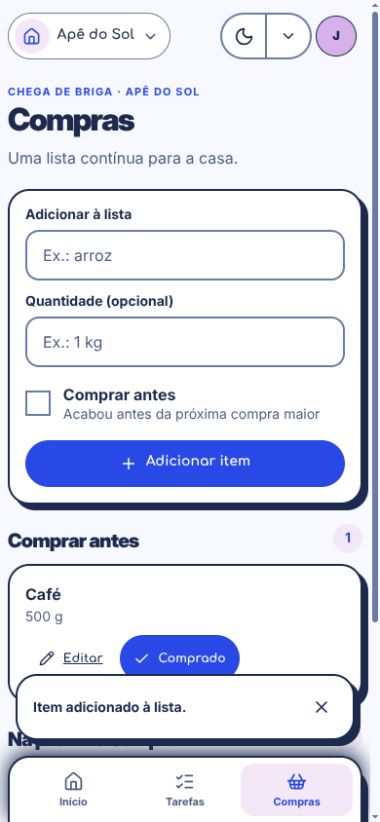
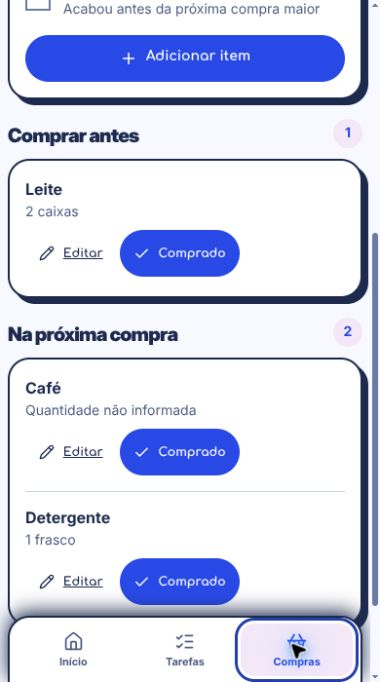
Melhora prévias da landing e isola modo demo

diff --git a/apps/web/src/resident/ResidentScreens.tsx b/apps/web/src/resident/ResidentScreens.tsx
@@ -311,7 +311,7 @@ export function TaskDetailScreen({
   onResume: () => void;
   onEnd: () => void;
 }) {
-  if (!task) return <EmptyState title="Esta tarefa não está disponível." description="Ela pode ter sido removida desta demonstração." />;
+  if (!task) return <EmptyState title="Esta tarefa não está disponível." description="Ela pode ter sido removida ou não estar mais disponível." />;
   return (
     <div className={styles.screenStack}>
       <button className={styles.backButton} type="button" onClick={onBack}><ArrowLeft size={18} aria-hidden="true" /> Voltar às tarefas</button>
@@ -570,7 +570,7 @@ export function ProfileScreen({
   async function toggleReminder() {
     setSavingReminder(true);
     try {
-      if (import.meta.env.DEV) {
+      if (import.meta.env.MODE === "demo") {
         showToast("Notificações ficam disponíveis no ambiente de produção.");
         return;
       }
@@ -639,7 +639,7 @@ export function ProfileScreen({
       </Card>
       <Card className={styles.preferenceCard}><h2>Seus dados</h2><p>Baixe uma cópia dos dados da sua conta e das casas em que participa.</p><Button variant="secondary" onClick={() => void exportData()}>Baixar meus dados</Button><p><Link to="/privacidade">Aviso de privacidade</Link></p><p><Link to="/casa/perfil/excluir">Excluir conta</Link></p></Card>
       <Button variant="quiet" className={styles.logoutButton} onClick={onLogout}><LogOut size={18} aria-hidden="true" /> Sair da conta</Button>
-      {import.meta.env.DEV && <p className={styles.helper}>A sessão e estas alterações são locais. Nenhum dado de conta é enviado.</p>}
+      {import.meta.env.MODE === "demo" && <p className={styles.helper}>A sessão e estas alterações são locais. Nenhum dado de conta é enviado.</p>}
     </div>
   );
 }
@@ -740,10 +740,10 @@ export function MembersScreen({
       {role === "responsavel" && (
         <Card className={styles.inviteCard}>
           <div className={styles.sectionHeadingCompact}><h2>Convidar morador</h2><Mail size={19} aria-hidden="true" /></div>
-          <p>{import.meta.env.DEV ? "Este convite fica nesta demonstração. Nenhum e-mail será enviado." : "A pessoa receberá um link por e-mail para entrar nesta casa."}</p>
+          <p>{import.meta.env.MODE === "demo" ? "Este convite fica nesta demonstração. Nenhum e-mail será enviado." : "A pessoa receberá um link por e-mail para entrar nesta casa."}</p>
           <form className={styles.inviteForm} onSubmit={submit}>
             <TextField id="invite-email" label="E-mail" type="email" required value={email} onChange={(event) => setEmail(event.target.value)} placeholder="nome@exemplo.com" />
-            <Button type="submit"><Plus size={18} aria-hidden="true" /> {import.meta.env.DEV ? "Criar convite de demonstração" : "Enviar convite"}</Button>
+            <Button type="submit"><Plus size={18} aria-hidden="true" /> {import.meta.env.MODE === "demo" ? "Criar convite de demonstração" : "Enviar convite"}</Button>
           </form>
         </Card>
       )}
@@ -753,7 +753,7 @@ export function MembersScreen({
           {data.members.map((member) => (
             <article className={styles.memberRow} key={member.id}>
               <Avatar name={member.name} initials={initials(member.name)} tone={member.id === userId ? "blue" : "sun"} />
-              <div><strong>{member.name}{member.id === userId ? " · Você" : ""}</strong><span>{member.email ?? "Morador de demonstração"}</span></div>
+              <div><strong>{member.name}{member.id === userId ? " · Você" : ""}</strong><span>{member.email ?? "Morador da casa"}</span></div>
               <span className={styles.memberRole}>{member.role === "responsavel" ? "Responsável" : "Morador"}</span>
               {role === "responsavel" && member.id !== userId && <div className={styles.memberActions}>
                 {member.role !== "responsavel" && <Button variant="quiet" onClick={() => onTransfer(member.id)}>Tornar responsável</Button>}
@@ -765,9 +765,9 @@ export function MembersScreen({
       </section>
       <section className={styles.contentSection} aria-labelledby="invites-title">
         <div className={styles.sectionHeadingCompact}><h2 id="invites-title">Convites pendentes</h2><span>{data.invites.length}</span></div>
-        {data.invites.length ? <Card className={styles.memberList}>{data.invites.map((invite) => <article className={styles.inviteRow} key={invite.id}><div><strong>{invite.email}</strong><StatusBadge tone="warning">{import.meta.env.DEV ? "Não enviado · demonstração" : "Link enviado"}</StatusBadge></div>{role === "responsavel" && <Button variant="quiet" onClick={() => onRevoke(invite.id)}>Revogar</Button>}</article>)}</Card> : <p className={styles.helper}>Nenhum convite pendente.</p>}
+        {data.invites.length ? <Card className={styles.memberList}>{data.invites.map((invite) => <article className={styles.inviteRow} key={invite.id}><div><strong>{invite.email}</strong><StatusBadge tone="warning">{import.meta.env.MODE === "demo" ? "Não enviado · demonstração" : "Link enviado"}</StatusBadge></div>{role === "responsavel" && <Button variant="quiet" onClick={() => onRevoke(invite.id)}>Revogar</Button>}</article>)}</Card> : <p className={styles.helper}>Nenhum convite pendente.</p>}
       </section>
-      {import.meta.env.DEV && <p className={styles.infoNote}>Os moradores e convites acima são dados locais de demonstração; alterações não chegam a outras pessoas.</p>}
+      {import.meta.env.MODE === "demo" && <p className={styles.infoNote}>Os moradores e convites acima são dados locais de demonstração; alterações não chegam a outras pessoas.</p>}
     </div>
   );
 }

diff --git a/apps/web/src/admin/AdminApp.tsx b/apps/web/src/admin/AdminApp.tsx
@@ -72,6 +72,7 @@ import styles from "./AdminApp.module.css";
 const client = new QueryClient({
   defaultOptions: { queries: { retry: 1, staleTime: 15_000 } },
 });
+const demoMode = import.meta.env.MODE === "demo";
 const AdminGatewayContext = createContext<AdminGateway | null>(null);
 const useAdminGateway = () => {
   const gateway = useContext(AdminGatewayContext);
@@ -237,11 +238,11 @@ function Login({
           <h1>
             {step === "totp"
               ? "Verificar o código"
-              : import.meta.env.DEV
+              : demoMode
                 ? "Entrar na demo"
                 : "Entrar na administração"}
           </h1>
-          {import.meta.env.DEV && <>
+          {demoMode && <>
             <p>Use as credenciais fictícias abaixo para explorar o fluxo.</p>
             <div className={styles.credentials}>
               <span>E-mail <strong>admin@exemplo.test</strong></span>
@@ -291,7 +292,7 @@ function Login({
             <Button type="submit" disabled={mutation.isPending}>
               {step === "totp"
                 ? "Verificar e entrar"
-                : import.meta.env.DEV
+                : demoMode
                   ? "Entrar na demo"
                   : "Entrar"}{" "}
               <ArrowRight size={18} aria-hidden="true" />
@@ -311,14 +312,14 @@ function Login({
           {step === "credentials" && bootstrapEnabled && <p className={styles.loginHelp}><Link to="/admin/setup">Configurar a primeira conta</Link></p>}
         </Card>
         <div className={styles.loginIntro}>
-          <span className={styles.eyebrow}>ÁREA DA EQUIPE{import.meta.env.DEV ? " · DEMONSTRAÇÃO" : ""}</span>
+          <span className={styles.eyebrow}>ÁREA DA EQUIPE{demoMode ? " · DEMONSTRAÇÃO" : ""}</span>
           <h2>
             Os bastidores
             <br />
             <em>também contam.</em>
           </h2>
           <p>
-            {import.meta.env.DEV ? "Este console usa dados fictícios e funciona somente no ambiente de desenvolvimento." : "Acesso restrito à equipe da plataforma."}
+            {demoMode ? "Este console usa dados fictícios e funciona somente no ambiente de demonstração." : "Acesso restrito à equipe da plataforma."}
           </p>
           <img src="/caminhos.svg" alt="" />
         </div>
@@ -772,7 +773,7 @@ function UserEditor({
                   Suspender conta
                 </Button>
               )}
-              {import.meta.env.DEV && (
+              {demoMode && (
                 <Button
                   variant="quiet"
                   disabled={mutation.isPending}
@@ -964,10 +965,10 @@ function AccessPage() {
       showToast(
         {
           allow: "Acesso liberado.",
-          invite: import.meta.env.DEV ? "Convite criado na demo; nenhum e-mail foi enviado." : "Convite criado; o e-mail entrou na fila de envio.",
+          invite: demoMode ? "Convite criado na demo; nenhum e-mail foi enviado." : "Convite criado; o e-mail entrou na fila de envio.",
           revokeAllow: "Autorização revogada.",
           revokeInvite: "Convite revogado.",
-          resend: import.meta.env.DEV ? "Convite atualizado na demo; nenhum e-mail foi enviado." : "Convite reenviado; o e-mail entrou na fila de envio.",
+          resend: demoMode ? "Convite atualizado na demo; nenhum e-mail foi enviado." : "Convite reenviado; o e-mail entrou na fila de envio.",
         }[action.kind],
       );
       if (action.kind === "allow") setAllowedEmail("");
@@ -1957,7 +1958,7 @@ function AdminInner({ themeControl }: { themeControl: ReactNode }) {
     );
   return (
     <section className={styles.console}>
-      {import.meta.env.DEV && <div className={styles.demoBanner} role="status">
+      {demoMode && <div className={styles.demoBanner} role="status">
         <span>DEMONSTRAÇÃO · DADOS FICTÍCIOS</span>
         <span>Alterações se perdem ao atualizar ou fechar a aba. Nenhum e-mail é enviado.</span>
       </div>}

diff --git a/apps/web/src/LandingPage.tsx b/apps/web/src/LandingPage.tsx
@@ -104,10 +104,9 @@ export function LandingPage() {
           )}
           <a className={styles.loginLink} href={`${appOrigin}/entrar`}>Já tem acesso? Entrar</a>
           <span className={styles.signature}>A casa não é um ringue.</span>
-          <span className={styles.previewBadge}>PRÉVIA DO APP · DADOS FICTÍCIOS</span>
         </div>
         <div className={styles.heroVisual} aria-label="Prévia do app Chega de Briga">
-          <img src="/prints/inicio.jpg" alt="Tela Início do app com o cartão Primeiro combinado e atalhos para criar uma tarefa ou adicionar item de compras." />
+          <img src="/prints/inicio.jpg" alt="Início do app com tarefas atribuídas a moradores e um resumo de três itens de compras, incluindo um urgente." />
           <span className={styles.sticker}>TÁ<br />COMBINADO.</span>
           <img className={styles.spark} src="/faisca.svg" alt="" />
         </div>
@@ -117,7 +116,7 @@ export function LandingPage() {
         <div className={styles.sectionIntro}>
           <span className={styles.eyebrow}>A ROTINA EM UM SÓ LUGAR</span>
           <h2 id="product-title">Cada combinado <em>mais fácil de encontrar.</em></h2>
-          <p>Veja o que precisa ser feito e o que está faltando, sem depender de uma conversa perdida no grupo. As telas usam dados fictícios.</p>
+          <p>Veja o que precisa ser feito e o que está faltando, sem depender de uma conversa perdida no grupo.</p>
         </div>
         <div className={styles.showcase}>
           <article className={styles.showcaseCard} id="rotinas">
@@ -127,7 +126,7 @@ export function LandingPage() {
               <h3>Quem faz, quando faz. Tudo combinado.</h3>
               <p>Organize tarefas únicas e recorrentes e deixe a responsabilidade clara para todo mundo.</p>
             </div>
-            <img src="/prints/tarefas.jpg" alt="Tela Tarefas do app com a aba Rotinas e a tarefa fictícia Separar recicláveis." loading="lazy" />
+            <img className={styles.taskScreenshot} src="/prints/tarefas.jpg" alt="Visão semanal com o lixo atrasado atribuído a Júlia, a louça diária em revezamento e o banheiro atribuído a Caio." loading="lazy" />
           </article>
           <article className={`${styles.showcaseCard} ${styles.shoppingCard}`} id="compras">
             <div className={styles.showcaseCopy}>
@@ -136,9 +135,10 @@ export function LandingPage() {
               <h3>O que falta já fica anotado.</h3>
               <p>Adicione itens e quantidades para a próxima compra, visíveis para quem divide a casa.</p>
             </div>
-            <img src="/prints/compras.jpg" alt="Tela Compras do app com a seção Comprar antes e o item fictício Café aparecendo na lista." loading="lazy" />
+            <img src="/prints/compras.jpg" alt="Lista de compras com Leite e duas caixas para comprar antes, além de Café e Detergente na próxima compra." loading="lazy" />
           </article>
         </div>
+        <p className={styles.previewNote}>Prévia ilustrativa com dados fictícios.</p>
       </section>
 
       <section className={styles.steps} aria-labelledby="steps-title">

diff --git a/design-system/index.html b/design-system/index.html
@@ -157,11 +157,11 @@
       </section>
 
       <section class="section-shell content-section" id="produto" aria-labelledby="produto-title">
-        <div class="section-heading"><span class="eyebrow">09 / MARCA NO PRODUTO</span><h2 id="produto-title">Combinados à vista.<br /><em>Casa mais leve.</em></h2><p>A promessa da marca aparece na landing e nas telas reais do app, com dados fictícios de demonstração.</p></div>
+        <div class="section-heading"><span class="eyebrow">09 / MARCA NO PRODUTO</span><h2 id="produto-title">Combinados à vista.<br /><em>Casa mais leve.</em></h2><p>A landing identifica as capturas como prévia ilustrativa com dados fictícios. As telas mostram tarefas, responsabilidades e reposição em situações concretas.</p></div>
         <div class="product-preview-grid">
-          <figure><img src="./assets/prints/inicio.jpg" alt="Início do app com o cartão Primeiro combinado e atalhos de primeira ação." /><figcaption><strong>Início</strong><small>Começar por um combinado</small></figcaption></figure>
-          <figure><img src="./assets/prints/tarefas.jpg" alt="Tela de tarefas com a aba Rotinas e um exemplo fictício." /><figcaption><strong>Tarefas e rotinas</strong><small>Quem faz e quando</small></figcaption></figure>
-          <figure><img src="./assets/prints/compras.jpg" alt="Tela de compras com a seção Comprar antes e Café em uma lista fictícia." /><figcaption><strong>Compras</strong><small>O que falta, anotado</small></figcaption></figure>
+          <figure><img src="./assets/prints/inicio.jpg" alt="Início do app com tarefas atribuídas a moradores e um resumo de três itens de compras, incluindo um urgente." /><figcaption><strong>Início</strong><small>Tarefas e compras da casa</small></figcaption></figure>
+          <figure><img src="./assets/prints/tarefas.jpg" alt="Visão semanal com o lixo atrasado atribuído a Júlia, a louça diária em revezamento e o banheiro atribuído a Caio." /><figcaption><strong>Tarefas e rotinas</strong><small>Responsabilidade e recorrência à vista</small></figcaption></figure>
+          <figure><img src="./assets/prints/compras.jpg" alt="Lista de compras com Leite e duas caixas para comprar antes, além de Café e Detergente na próxima compra." /><figcaption><strong>Compras</strong><small>Urgência e quantidade, à vista</small></figcaption></figure>
         </div>
       </section>
     </main>

diff --git a/apps/web/src/LandingPage.module.css b/apps/web/src/LandingPage.module.css
@@ -116,11 +116,11 @@
 }
 .sticker {
   position: absolute;
-  right: 0;
-  bottom: 10%;
+  right: -1rem;
+  bottom: 8%;
   display: grid;
   place-items: center;
-  width: clamp(105px, 12vw, 150px);
+  width: clamp(92px, 9.5vw, 124px);
   aspect-ratio: 1;
   transform: rotate(8deg);
   border: var(--stroke) solid var(--brand-ink);
@@ -132,7 +132,6 @@
   text-align: center;
 }
 .spark { position: absolute; top: 7%; right: 7%; width: clamp(62px, 8vw, 100px); filter: drop-shadow(4px 4px 0 var(--brand-ink)); }
-.previewBadge { display: inline-flex; max-width: 100%; margin-top: 0.6rem; padding: 0.45rem 0.7rem; border: var(--stroke) solid var(--brand-ink); border-radius: var(--radius-pill); background: var(--brand-white); color: var(--brand-ink); box-shadow: 3px 3px 0 var(--brand-ink); font: 800 0.62rem/1.2 var(--font-personality); letter-spacing: 0.07em; }
 .product { display: grid; gap: 2.5rem; }
 .sectionIntro { max-width: 820px; }
 .sectionIntro > .eyebrow,
@@ -181,6 +180,8 @@
   border-radius: 1.3rem 1.3rem 0 0;
   box-shadow: 0 0 0 1px var(--color-surface);
 }
+.showcaseCard > img.taskScreenshot { object-position: center 70%; }
+.previewNote { margin: -1.75rem 0 0; color: var(--color-text-muted); font-size: var(--type-sm); text-align: right; }
 .shoppingCard { background: var(--color-surface-accent); }
 .steps { display: grid; gap: 2.5rem; }
 .stepList { display: grid; grid-template-columns: repeat(3, minmax(0, 1fr)); gap: 0; margin: 0; padding: 0; list-style: none; }
@@ -268,7 +269,7 @@
   .hero h1 { max-width: 12ch; font-size: clamp(2.7rem, 10vw, 4.6rem); }
   .heroVisual { min-height: 520px; margin-top: 0.5rem; }
   .heroVisual > img:first-child { width: clamp(210px, 63vw, 285px); max-height: 520px; }
-  .sticker { right: 3%; bottom: 9%; width: 100px; }
+  .sticker { right: -0.25rem; bottom: 8%; width: 90px; }
   .spark { top: 2%; right: 9%; width: 70px; }
   .showcase { grid-template-columns: 1fr; }
   .showcaseCard > img { max-height: 620px; }

diff --git a/apps/web/src/auth/AuthApp.tsx b/apps/web/src/auth/AuthApp.tsx
@@ -142,7 +142,7 @@ function AuthLayout({
           </span>
         </Link>
         <div className={styles.headerActions}>
-          {import.meta.env.DEV && <span className={styles.demoTag}>DEMO LOCAL</span>}
+          {import.meta.env.MODE === "demo" && <span className={styles.demoTag}>DEMO LOCAL</span>}
           {themeControl}
         </div>
       </header>
@@ -431,13 +431,13 @@ function Recovery() {
       <h1>Esqueceu a senha?</h1>
       {sent ? (
         <div className={styles.confirmation} role="status">
-          <p>Se houver uma conta com esse e-mail, o link de redefinição estará disponível na demonstração.</p>
+          <p>{import.meta.env.MODE === "demo" ? "Se houver uma conta com esse e-mail, o link de redefinição estará disponível na demonstração." : "Se houver uma conta com esse e-mail, enviaremos instruções para redefinir a senha."}</p>
           {resetLink && (
             <Link className={styles.resetLink} to={resetLink}>
               Abrir link de redefinição <ArrowRight size={17} aria-hidden="true" />
             </Link>
           )}
-          <p className={styles.finePrint}>Nenhum e-mail foi enviado. O link de teste expira em 30 minutos e só pode ser usado uma vez.</p>
+          {import.meta.env.MODE === "demo" && <p className={styles.finePrint}>Nenhum e-mail foi enviado. O link de teste expira em 30 minutos e só pode ser usado uma vez.</p>}
         </div>
       ) : (
         <>
@@ -705,7 +705,7 @@ function Feedback({
 }
 
 function DemoNote() {
-  if (!import.meta.env.DEV) return null;
+  if (import.meta.env.MODE !== "demo") return null;
   return (
     <p className={styles.demoNote}>
       Demonstração local: nenhuma conta real é criada e nenhum e-mail é enviado.

diff --git a/apps/web/src/resident/ResidentApp.tsx b/apps/web/src/resident/ResidentApp.tsx
@@ -596,7 +596,7 @@ export function ResidentApp({
           <ChevronDown size={17} aria-hidden="true" />
         </button>
         <div className={styles.headerActions}>
-          {import.meta.env.DEV && <span className={styles.demoBadge}>DEMO LOCAL</span>}
+          {import.meta.env.MODE === "demo" && <span className={styles.demoBadge}>DEMO LOCAL</span>}
           {themeControl}
           <Link className={styles.avatarLink} to="/casa/perfil" aria-label="Abrir perfil">
             <Avatar name={session.user.name} initials={initials(session.user.name)} tone="lilac" />
@@ -677,7 +677,7 @@ export function ResidentApp({
             <MembersScreen data={data} userId={session.user.id} role={membership?.role ?? "morador"} onInvite={inviteResident} onRemove={removeMember} onRevoke={revokeInvite} onTransfer={transferResponsibility} />
           </>
         ) : <EmptyState title="Tela não encontrada." description="Volte para Início e escolha um destino da casa." />}
-        {import.meta.env.DEV && <p className={styles.localNote}>Demonstração local: alterações se perdem ao atualizar ou fechar esta aba e não sincronizam com outras pessoas.</p>}
+        {import.meta.env.MODE === "demo" && <p className={styles.localNote}>Demonstração local: alterações se perdem ao atualizar ou fechar esta aba e não sincronizam com outras pessoas.</p>}
       </main>
 
       <nav className={styles.bottomNav} aria-label="Navegação da casa">

diff --git a/apps/web/src/App.tsx b/apps/web/src/App.tsx
@@ -26,16 +26,17 @@ import {
 } from "./theme";
 import styles from "./App.module.css";
 
-const DevAdmin = import.meta.env.DEV
+const demoMode = import.meta.env.MODE === "demo";
+const DevAdmin = demoMode
   ? lazy(() => import("./admin/DemoAdminApp"))
   : null;
-const ProdAdmin = !import.meta.env.DEV
+const ProdAdmin = !demoMode
   ? lazy(() => import("./admin/ProductionAdminApp"))
   : null;
-const DevAuth = import.meta.env.DEV
+const DevAuth = demoMode
   ? lazy(() => import("./auth/DemoAuthApp"))
   : null;
-const ProdAuth = !import.meta.env.DEV
+const ProdAuth = !demoMode
   ? lazy(() => import("./auth/ProductionAuthApp"))
   : null;
 const DevLanding = import.meta.env.DEV
@@ -424,7 +425,7 @@ const publicMenuItems: MobileMenuItem[] = [
   { to: "/#compras", label: "Compras" },
   { to: "/#lista-de-espera", label: "Lista de espera" },
   ...(import.meta.env.DEV ? [{ to: "/componentes", label: "Componentes" }] : []),
-  ...(import.meta.env.DEV ? [{ to: "/admin", label: "Admin demo" }] : []),
+  ...(import.meta.env.DEV ? [{ to: "/admin", label: demoMode ? "Admin demo" : "Admin" }] : []),
 ];
 
 function PublicLinks() {

diff --git a/apps/api/src/server.ts b/apps/api/src/server.ts
@@ -1644,10 +1644,11 @@ if (existsSync(path.join(webRoot, "index.html"))) {
 }
 
 const port = Number(process.env.PORT ?? 3000);
+const host = process.env.HOST ?? "0.0.0.0";
 if (publicSignupEnabled) {
   await pool.query("INSERT INTO app_settings(key,value) VALUES('public_signup_launched_at',now()::text) ON CONFLICT(key) DO NOTHING");
 }
-await app.listen({ host: "0.0.0.0", port });
+await app.listen({ host, port });
 app.log.info({ port }, "Chega de Briga API ready");
 
 const cleanup = setInterval(() => {

diff --git a/apps/web/src/components/ConsoleLoading.tsx b/apps/web/src/components/ConsoleLoading.tsx
@@ -4,7 +4,7 @@ export function ConsoleLoading() {
   return (
     <SplashScreen
       notice={
-        import.meta.env.DEV ? "DEMONSTRAÇÃO · DADOS FICTÍCIOS" : undefined
+        import.meta.env.MODE === "demo" ? "DEMONSTRAÇÃO · DADOS FICTÍCIOS" : undefined
       }
       title="Arrumando a casa por aqui."
       detail="Carregando o console…"

diff --git a/README.md b/README.md
@@ -11,7 +11,7 @@ pnpm install --frozen-lockfile
 pnpm dev
 ```
 
-`pnpm dev` sobe um PostgreSQL local isolado, aplica as migrações e inicia a API e o Vite com `/api` encaminhado para a API. A interface fica em `http://127.0.0.1:5173`, o cadastro público permanece fechado e nenhuma mensagem é enviada. Use contatos sintéticos terminados em `.test`. Para abrir somente a interface com gateways de demonstração, sem banco ou API, rode `pnpm dev:demo`.
+`pnpm dev` sobe um PostgreSQL local isolado, aplica as migrações e inicia a API e o Vite com `/api` encaminhado para a API. A interface fica em `http://127.0.0.1:5173`, o cadastro público permanece fechado e nenhuma mensagem é enviada. Use contatos sintéticos terminados em `.test`. Se as portas padrão estiverem ocupadas, escolha portas livres, por exemplo `CDB_WEB_PORT=5177 CDB_API_PORT=3001 pnpm dev`. A API de desenvolvimento escuta somente em `127.0.0.1`. Para abrir somente a interface com gateways de demonstração, sem banco ou API, rode `pnpm dev:demo`.
 
 Para executar a API manualmente, configure as variáveis documentadas em [`docs/backend-deployment-contract-v1.md`](./docs/backend-deployment-contract-v1.md), disponibilize PostgreSQL e rode:
 
@@ -21,7 +21,7 @@ pnpm api:dev
 
 Para parar o banco local, rode `docker compose -f docker-compose.local.yml down`; o volume de desenvolvimento é preservado.
 
-As rotas `/admin` e `/entrar` usam dados simulados em desenvolvimento e serviços reais no build de produção. Não use credenciais demo nem fixtures para validar produção.
+As rotas `/admin` e `/entrar` usam o backend local em `pnpm dev` e serviços reais no build de produção. Só `pnpm dev:demo` usa gateways simulados e mostra avisos de demonstração; ele não inicia banco nem API. Não use credenciais demo nem fixtures para validar produção.
 
 ## Build e execução
 

diff --git a/docs/admin-backend-contract.md b/docs/admin-backend-contract.md
@@ -1,6 +1,6 @@
 # Contrato do backend administrativo
 
-Este documento define o domínio administrativo e as métricas usadas por `apps/web/src/admin`. O gateway de produção e as rotas protegidas existem; `/admin` usa o backend no build de produção e mantém dados simulados somente no Vite de desenvolvimento. A implantação ainda precisa ser verificada. A arquitetura, autenticação, retenção e provisionamento ficam em [backend-deployment-contract-v1.md](./backend-deployment-contract-v1.md); as regras do produto residencial ficam em [modelagem-mobile-v1.md](./modelagem-mobile-v1.md).
+Este documento define o domínio administrativo e as métricas usadas por `apps/web/src/admin`. O gateway de produção e as rotas protegidas existem; `/admin` usa o backend em `pnpm dev` e no build de produção, e só usa dados simulados em `pnpm dev:demo`. A implantação ainda precisa ser verificada. A arquitetura, autenticação, retenção e provisionamento ficam em [backend-deployment-contract-v1.md](./backend-deployment-contract-v1.md); as regras do produto residencial ficam em [modelagem-mobile-v1.md](./modelagem-mobile-v1.md).
 
 ## Entidades e relações
 
